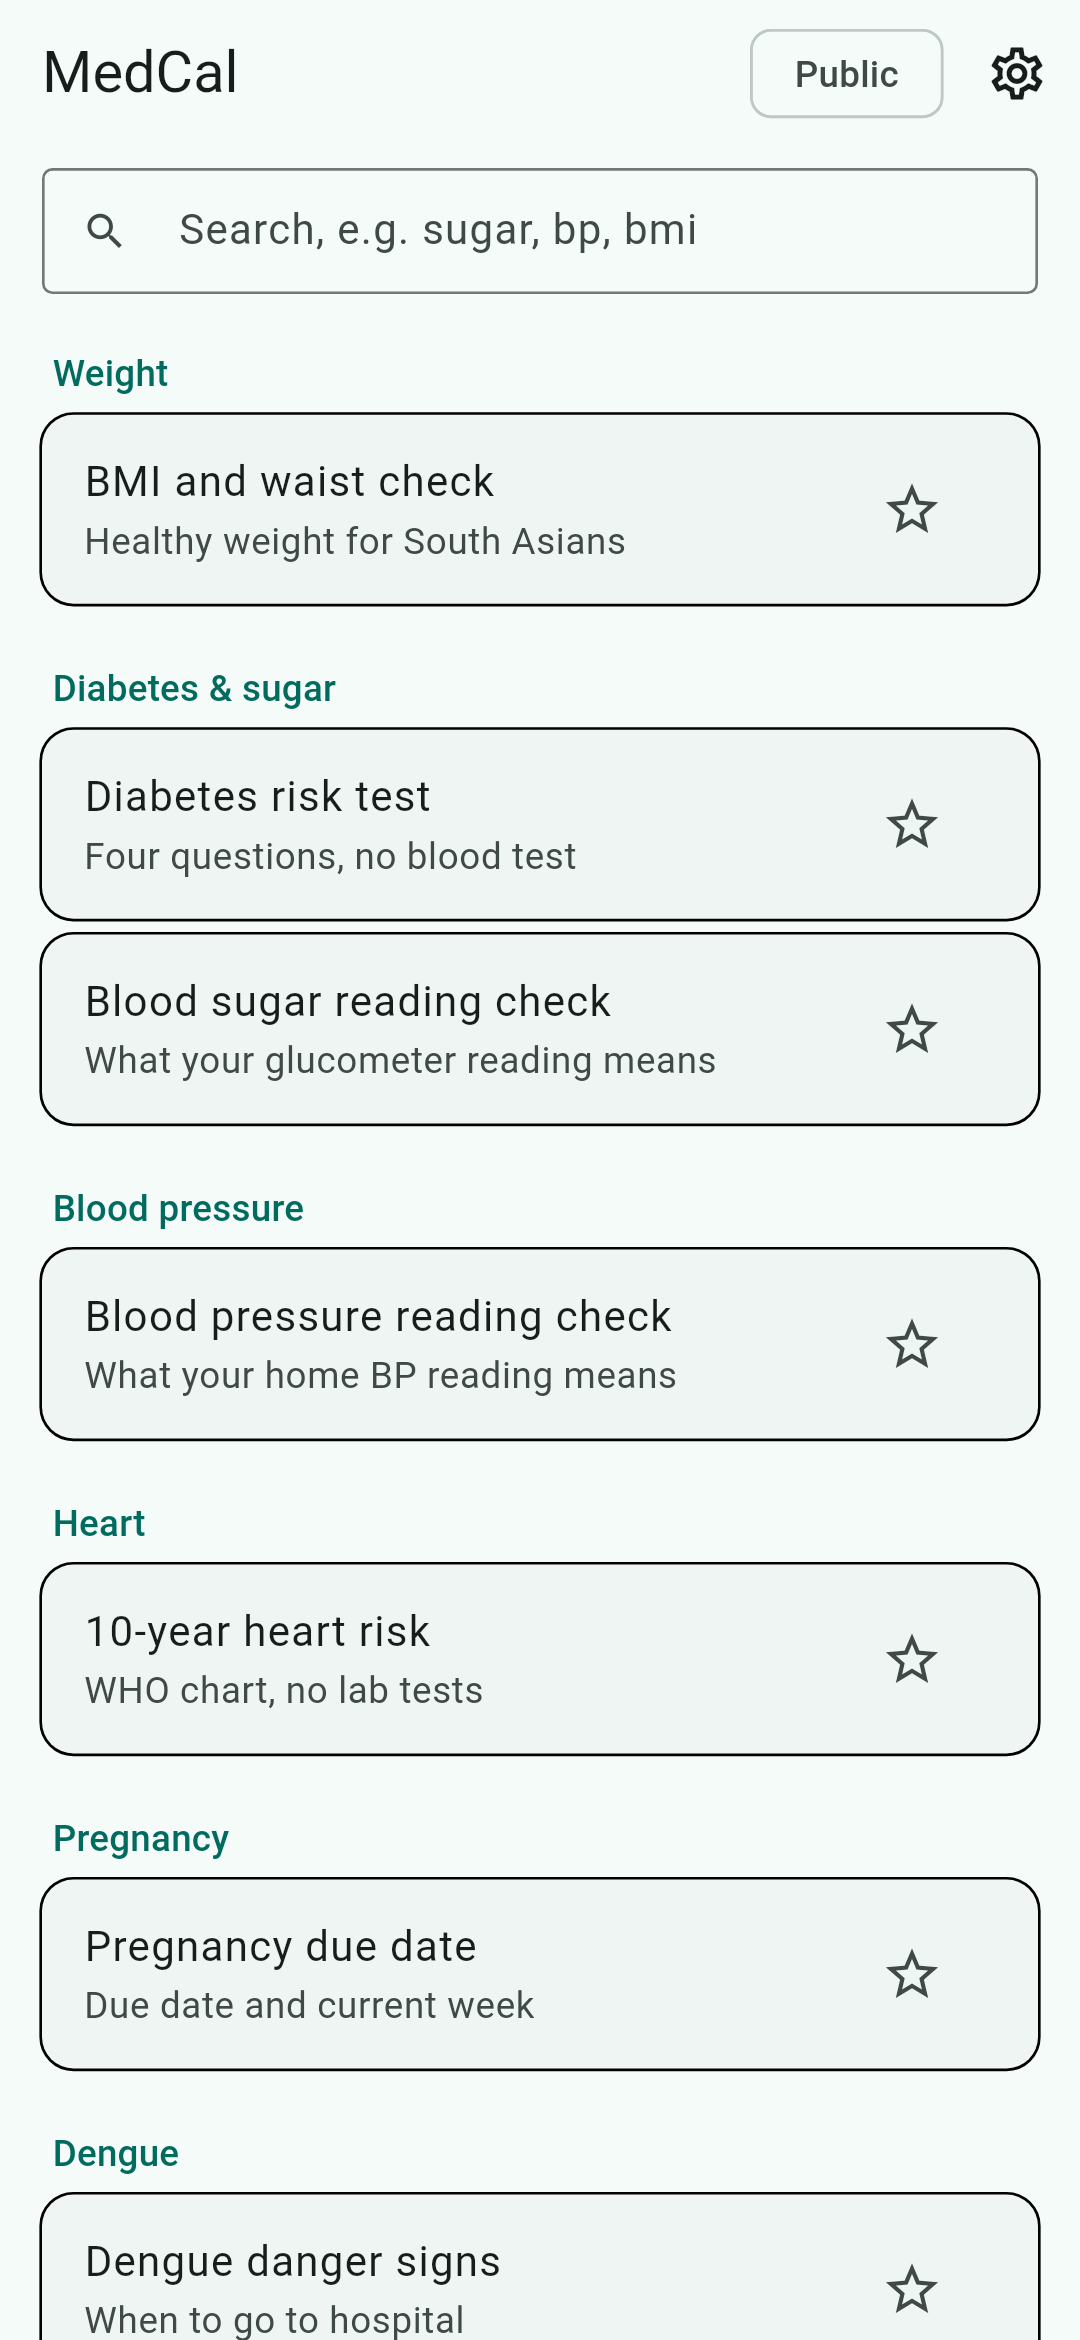
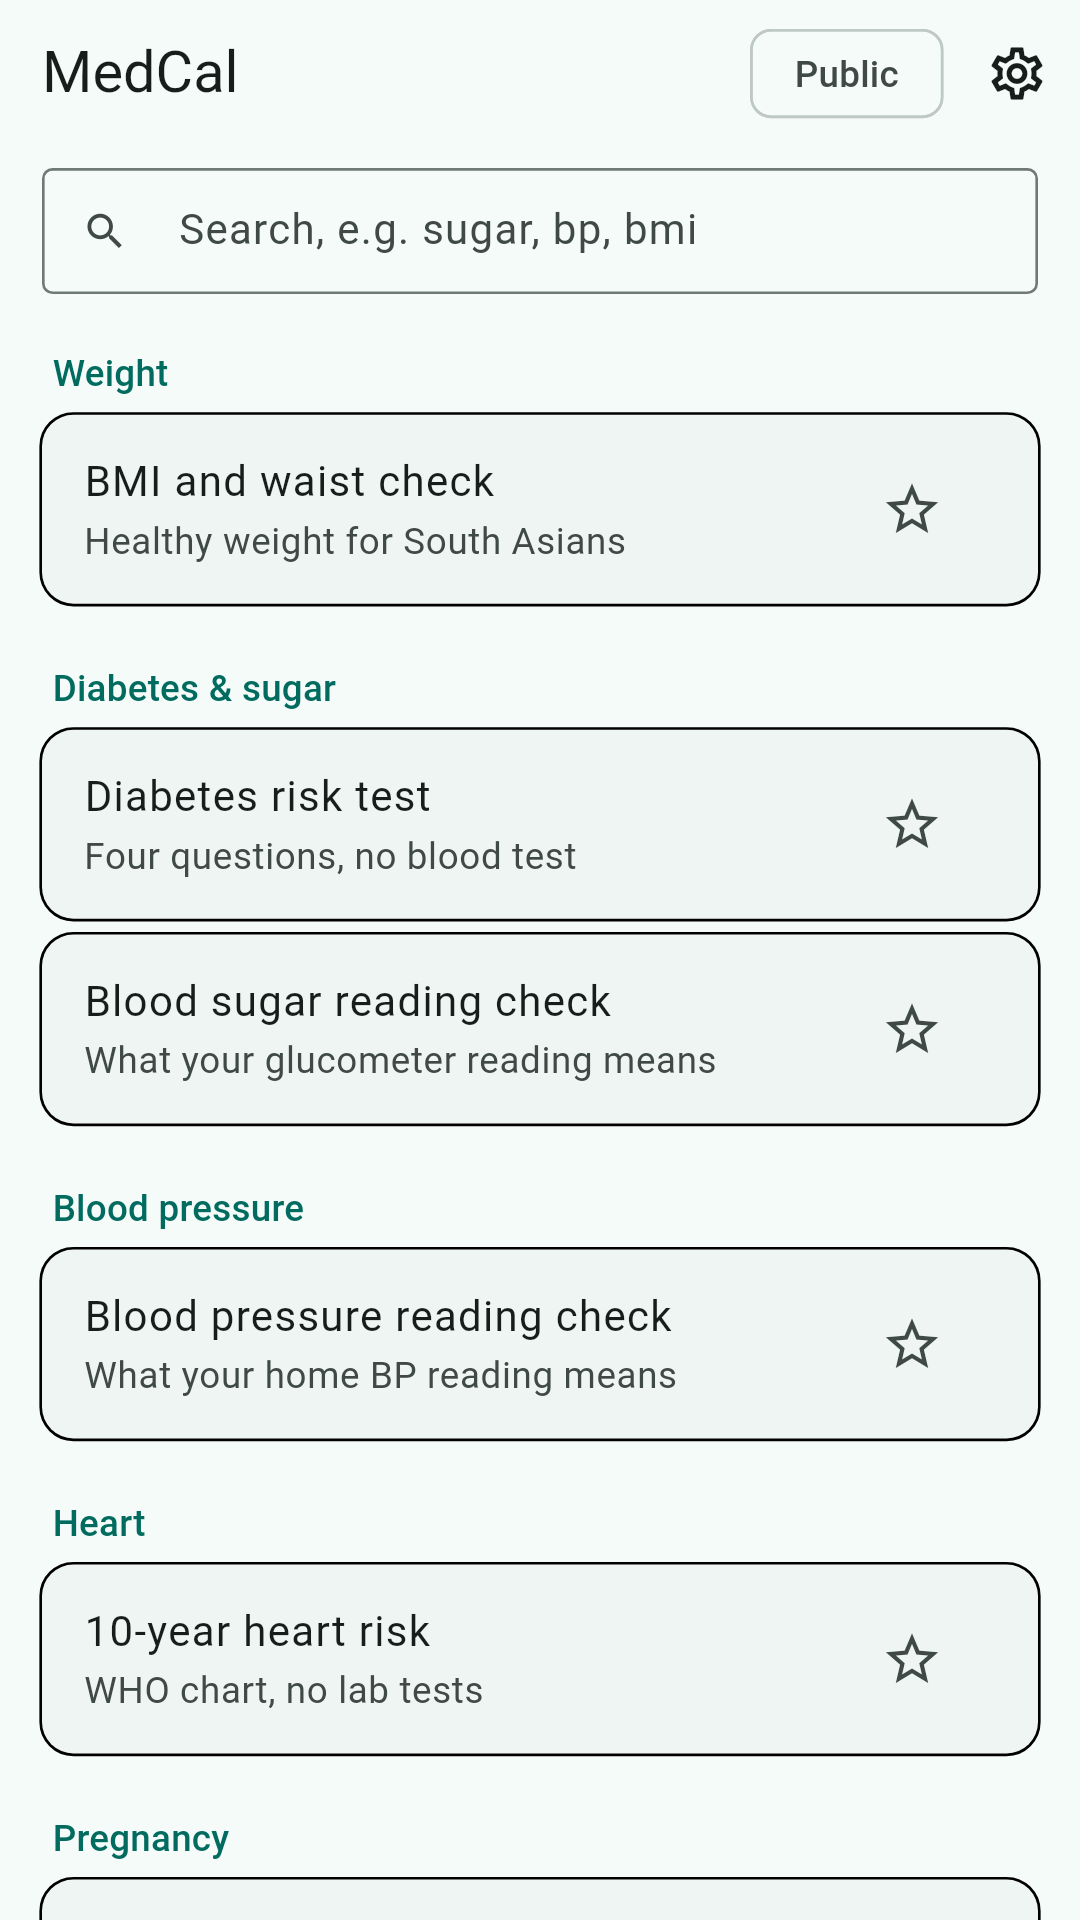
Store screenshots at 1080x1920 (Play needs 9:16)

diff --git a/test_store/store_screenshots_test.dart b/test_store/store_screenshots_test.dart
@@ -33,8 +33,8 @@ Future<void> _pumpApp(
   // ignore: invalid_use_of_visible_for_testing_member (test_store/ is a test, outside test/)
   SharedPreferences.setMockInitialValues(prefs);
   final sp = await SharedPreferences.getInstance();
-  // 1080×2340 phone.
-  tester.view.physicalSize = const Size(1080, 2340);
+  // 1080×1920 phone (Play needs 9:16).
+  tester.view.physicalSize = const Size(1080, 1920);
   tester.view.devicePixelRatio = 2.625;
   addTearDown(tester.view.reset);
   await tester.pumpWidget(
